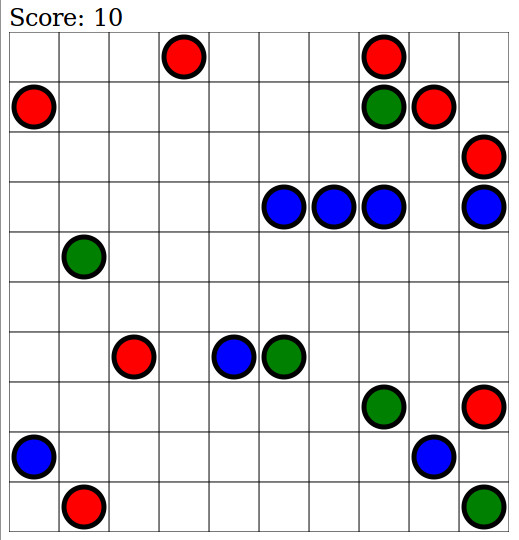
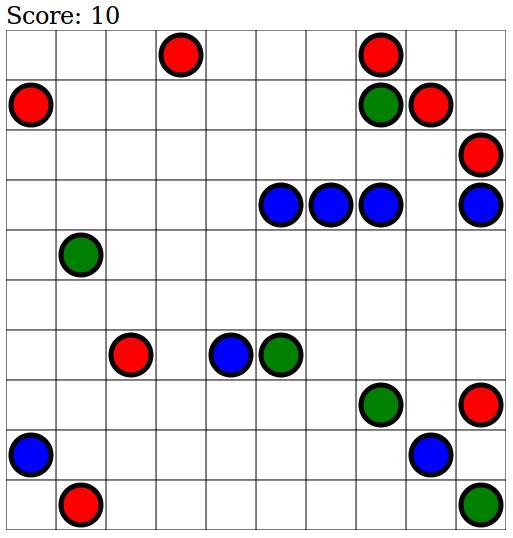
tweak screenshot

Changed region(s): [[0.0, 0.0, 0.9981, 0.9814]]

diff --git a/README.md b/README.md
@@ -3,4 +3,4 @@
 A simple JavaScript/HTML5 game where your goal is to earn points by placing 5 or more colored balls in a row. The code is written with TDD (Test-Driven Development) methodology. [Jasmine](http://jasmine.github.io/) is used to run the tests.
 
 A screenshot:  
-![Screenshot of the Lines game](screenshot.png)
+![Screenshot of the Lines game](screenshot.jpg)
